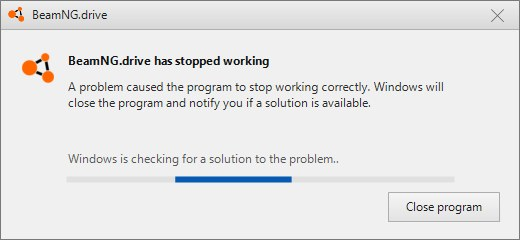
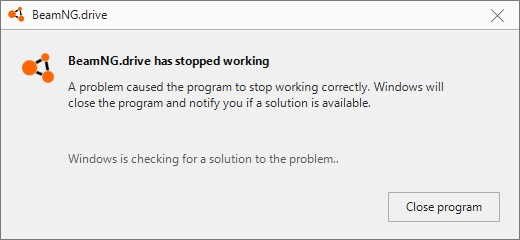
add v1.1 screenshots to the README

Changed region(s): [[0.0, 0.0292, 1.0, 0.1458], [0.3077, 0.7292, 0.5846, 0.7875]]

diff --git a/README.md b/README.md
@@ -43,9 +43,9 @@
 |---|---|
 | ![](docs/shots/boot.jpg) | ![](docs/shots/installer.jpg) |
 
-| «Краш» | Настройки |
+| «Краш» — Windows 10/11 | «Краш» — Windows 7/8 |
 |---|---|
-| ![](docs/shots/crash.jpg) | ![](docs/shots/options.jpg) |
+| ![](docs/shots/crash.jpg) | ![](docs/shots/crash-classic.jpg) |
 
 ## Фичи
 
